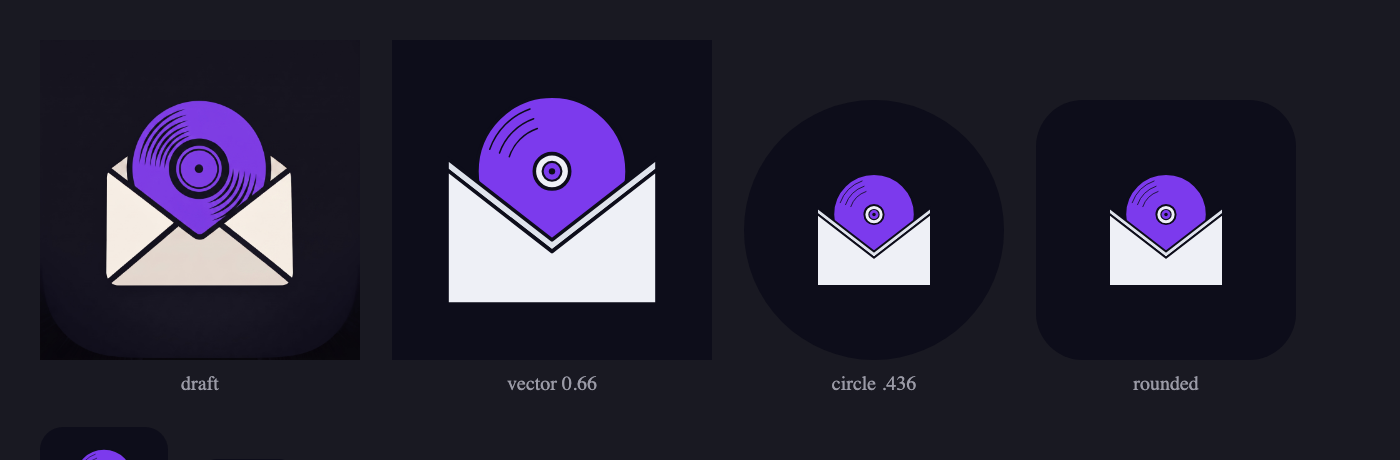
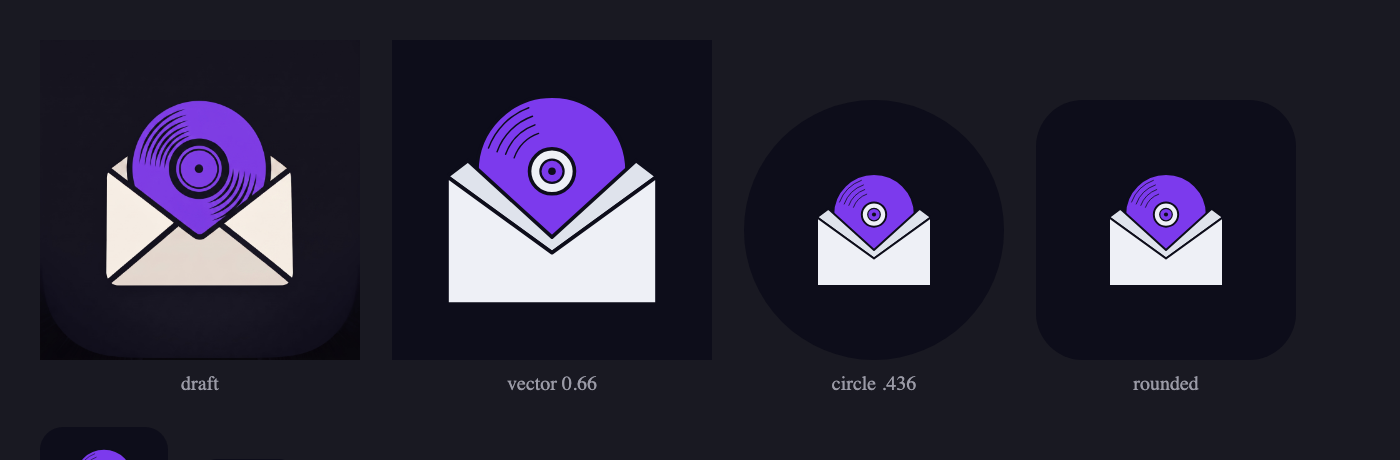
The two envelopes already agreed; I had measured the wrong boxes
Dafa asked for one family envelope at the My Apps root, copied exactly from
Cinemail. Extracting theirs first turned up two things.

Their envelope cannot be copied. docs/icon-layers/2-envelope.svg is a fragment:
the film strip covers its right shoulder completely and a notch is cut where
the reel sits in front. Nothing in that repo holds a complete envelope, because
it was generated and traced, never authored.

And there was nothing to reconcile anyway. Rendering their envelope layer at
2048 and scanning it:

                     Cinemail    Tunemail draft
  paper box          1193x827    1193x827
  aspect             1.443       1.443
  flap apex, down    0.649       0.640

Identical. The disagreement I reported - 1.443 against 1.189 - was mine: 1.189
is their INK box, which includes the reel and the strip. I compared an ink box
with a paper box and called it a family problem.

So the geometry was recovered from their uncontaminated left half and mirrored,
which is sound because the apex is centred - the 42.7% offset having been
withdrawn as antialiasing noise on a nearly flat edge.

It lives at ../_brand/envelope.json, outside both repos. A copy in each would
diverge the first time somebody edited the near one, and both projects already
load the My Apps root. The file records what varies between siblings (accent
colour, the object in the envelope) and what does not (the envelope, outlines,
stroke weight, fonts, icons), plus the two retracted numbers so nobody
[…]

Changed region(s): [[0.3071, 0.2435, 0.4914, 0.5478], [0.7679, 0.3957, 0.8907, 0.5478], [0.5836, 0.3957, 0.6757, 0.5478]]

diff --git a/brand/generate.py b/brand/generate.py
@@ -1,47 +1,48 @@
-import math, io
-# All measured off Dafa's draft, not eyed:
-#   record diameter / envelope width  0.715
-#   envelope aspect w/h               1.443
-#   ink aspect w/h                    1.011
-#   record centre, down the ink       0.362
-#   envelope top, down the ink        0.299
-# Flap angle and shoulder are Cinemail's contour details where they fit.
-X0, X1 = 14.0, 186.0
-W = X1 - X0
-INK_H = W / 1.011
-ENV_H = W / 1.443
-ENV_T = INK_H * 0.299
-ENV_B = ENV_T + ENV_H
-RR    = 0.715 * W / 2
-RCY   = INK_H * 0.362
-SHOULDER = 0.080          # measured on the draft by column scan, not Cinemail's
-                          # 0.395 - theirs sits much lower and gave a fat band
-APEX_FRAC = 0.640         # measured: the flap edge runs 0.202 at x=10% and
-                          # 0.368 at x=25%, extrapolating to 0.64 at centre
-STROKE = round(0.0171 * W, 2)
+import math, io, json
+G = json.load(open('/Users/dafa/Documents/My Apps/_brand/envelope.json'))
+E = G['envelope']; O = G['outline']
 
-sh   = ENV_T + SHOULDER * ENV_H
-apex = ENV_T + APEX_FRAC * ENV_H
-band = sh - ENV_T
-ax   = 100.0
+# Envelope, from the shared family geometry.
+X0, X1 = 14.0, 186.0
+W  = X1 - X0
+EH = W / E['aspect']
+# Record, from Dafa's draft: diameter 0.715 of the envelope width, centre such
+# that 41.3% of the disc shows above the envelope.
+RR   = 0.715 * W / 2
+INK_H = W / 1.011
+ENV_T = INK_H * 0.299
+ENV_B = ENV_T + EH
+RCY  = INK_H * 0.362
+CX   = (X0 + X1) / 2
+
+peakX  = X0 + E['backWallPeakX'] * W
+peakY  = ENV_T + E['backWallPeakY'] * EH
+sideY  = ENV_T + E['flapEdgeAtSide'] * EH
+apexY  = ENV_T + E['flapApexY'] * EH
+STROKE = round(O['strokeFractionOfInkWidth'] * W, 2)
+
+# Back wall: peaks near the sides, dipping to the middle. Its lower edge is the
+# flap's top edge, so the band is what shows between them.
+band = sideY - peakY
 
 svg = f'''<svg xmlns="http://www.w3.org/2000/svg" viewBox="{X0} 0 {W} {INK_H:.1f}" width="{W}" height="{INK_H:.1f}">
   <g stroke="#0d0d1a" stroke-width="{STROKE}" stroke-linejoin="round" stroke-linecap="round">
-    <circle cx="{ax}" cy="{RCY:.1f}" r="{RR:.1f}" fill="#7c3aed"/>
-    <g fill="none" stroke="#0d0d1a" stroke-width="{STROKE*0.42:.2f}" stroke-linecap="round">
-      <path d="M{ax-51:.1f} {RCY-18:.1f} A54 54 0 0 1 {ax-18:.1f} {RCY-51:.1f}"/>
-      <path d="M{ax-43:.1f} {RCY-15:.1f} A45.5 45.5 0 0 1 {ax-15:.1f} {RCY-43:.1f}"/>
-      <path d="M{ax-35:.1f} {RCY-12:.1f} A37 37 0 0 1 {ax-12:.1f} {RCY-35:.1f}"/>
+    <circle cx="{CX}" cy="{RCY:.1f}" r="{RR:.1f}" fill="#7c3aed"/>
+    <g fill="none" stroke="#0d0d1a" stroke-width="{STROKE*0.40:.2f}" stroke-linecap="round">
+      <path d="M{CX-52:.1f} {RCY-19:.1f} A55.5 55.5 0 0 1 {CX-19:.1f} {RCY-52:.1f}"/>
+      <path d="M{CX-45:.1f} {RCY-16:.1f} A48 48 0 0 1 {CX-16:.1f} {RCY-45:.1f}"/>
+      <path d="M{CX-38:.1f} {RCY-14:.1f} A40.5 40.5 0 0 1 {CX-14:.1f} {RCY-38:.1f}"/>
+      <path d="M{CX-31:.1f} {RCY-11:.1f} A33 33 0 0 1 {CX-11:.1f} {RCY-31:.1f}"/>
     </g>
-    <circle cx="{ax}" cy="{RCY:.1f}" r="{RR*0.235:.1f}" fill="#eef0f6"/>
-    <circle cx="{ax}" cy="{RCY:.1f}" r="{RR*0.125:.1f}" fill="#7c3aed" stroke-width="{STROKE*0.6:.2f}"/>
-    <circle cx="{ax}" cy="{RCY:.1f}" r="{RR*0.042:.1f}" fill="#0d0d1a" stroke="none"/>
-    <path d="M{X0} {sh:.1f} L{X0} {ENV_T:.1f} L{ax} {apex-band:.1f} L{X1} {ENV_T:.1f} L{X1} {sh:.1f} L{ax} {apex:.1f} Z" fill="#dfe3ec"/>
-    <path d="M{X0} {sh:.1f} L{ax} {apex:.1f} L{X1} {sh:.1f} L{X1} {ENV_B:.1f} L{X0} {ENV_B:.1f} Z" fill="#eef0f6"/>
+    <circle cx="{CX}" cy="{RCY:.1f}" r="{RR*0.30:.1f}" fill="#eef0f6"/>
+    <circle cx="{CX}" cy="{RCY:.1f}" r="{RR*0.155:.1f}" fill="#7c3aed" stroke-width="{STROKE*0.62:.2f}"/>
+    <circle cx="{CX}" cy="{RCY:.1f}" r="{RR*0.050:.1f}" fill="#0d0d1a" stroke="none"/>
+    <path d="M{X0} {sideY:.1f} L{peakX:.1f} {peakY:.1f} L{CX} {apexY-band:.1f} L{X1-(peakX-X0):.1f} {peakY:.1f} L{X1} {sideY:.1f} L{CX} {apexY:.1f} Z" fill="#dfe3ec"/>
+    <path d="M{X0} {sideY:.1f} L{CX} {apexY:.1f} L{X1} {sideY:.1f} L{X1} {ENV_B:.1f} L{X0} {ENV_B:.1f} Z" fill="#eef0f6"/>
   </g>
 </svg>'''
 io.open('mark.svg','w').write(svg)
 d = math.hypot(W/2, INK_H/2)
 print(f"ink {W:.0f}x{INK_H:.0f}  aspect {W/INK_H:.3f}  stroke {STROKE}")
-print(f"record r {RR:.1f}  cy {RCY:.1f}   envelope y {ENV_T:.1f}..{ENV_B:.1f}  apex {apex:.1f}")
-print(f"max width of canvas {(33/108)*W/d:.4f}   ship at {(33/108)*W/d*0.97:.3f}")
+print(f"envelope {ENV_T:.1f}..{ENV_B:.1f} (h {EH:.1f})  apex {apexY:.1f}  side {sideY:.1f}  peak {peakX:.0f},{peakY:.1f}")
+print(f"max of canvas {(33/108)*W/d:.4f}  ship {(33/108)*W/d*0.97:.3f}")
